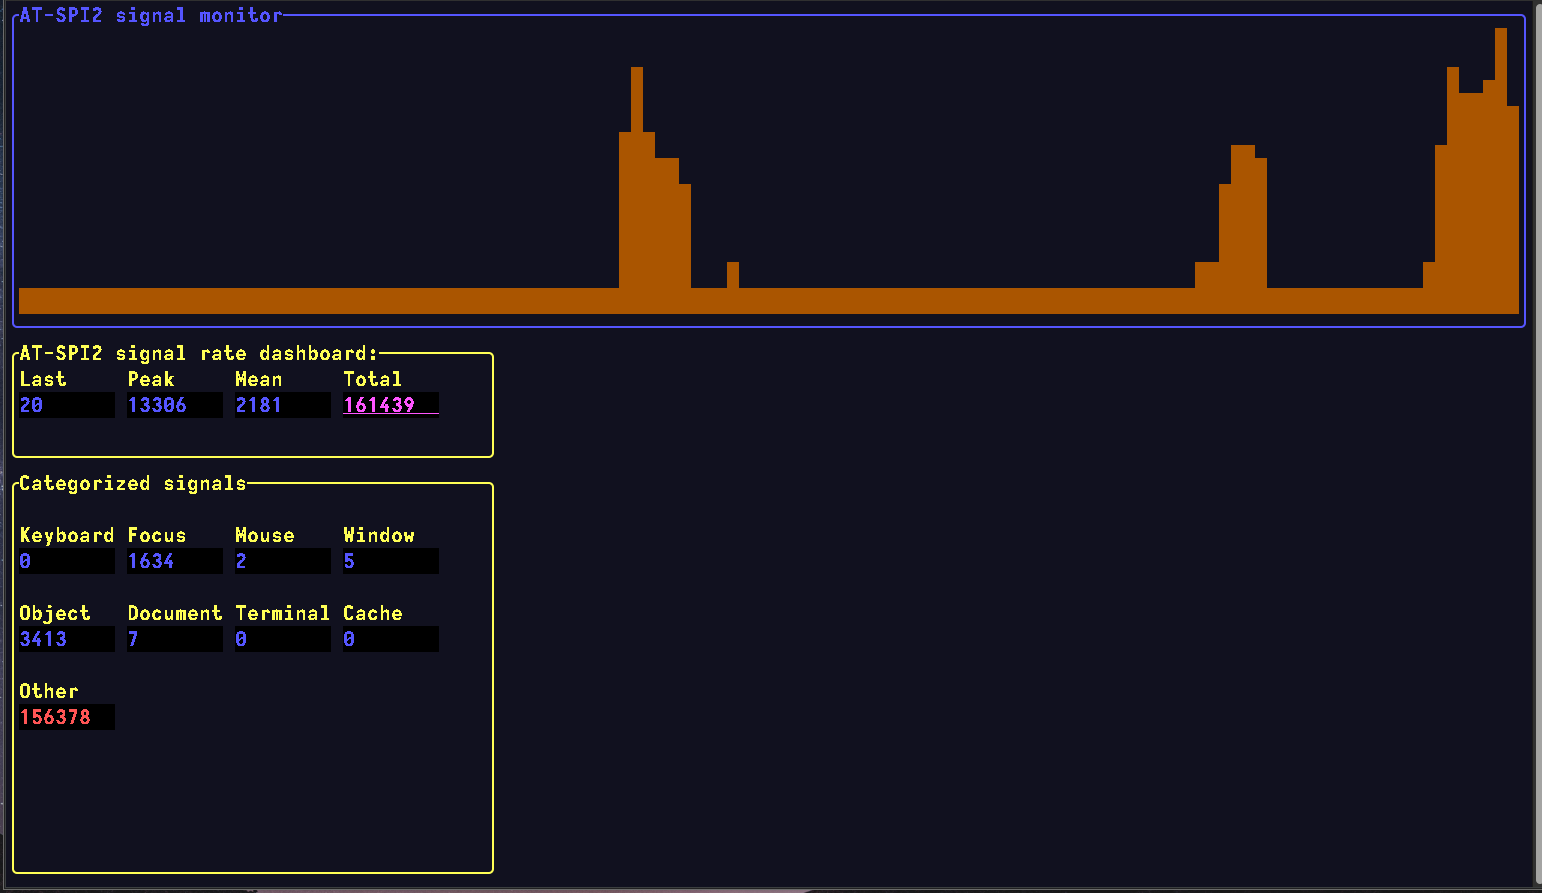
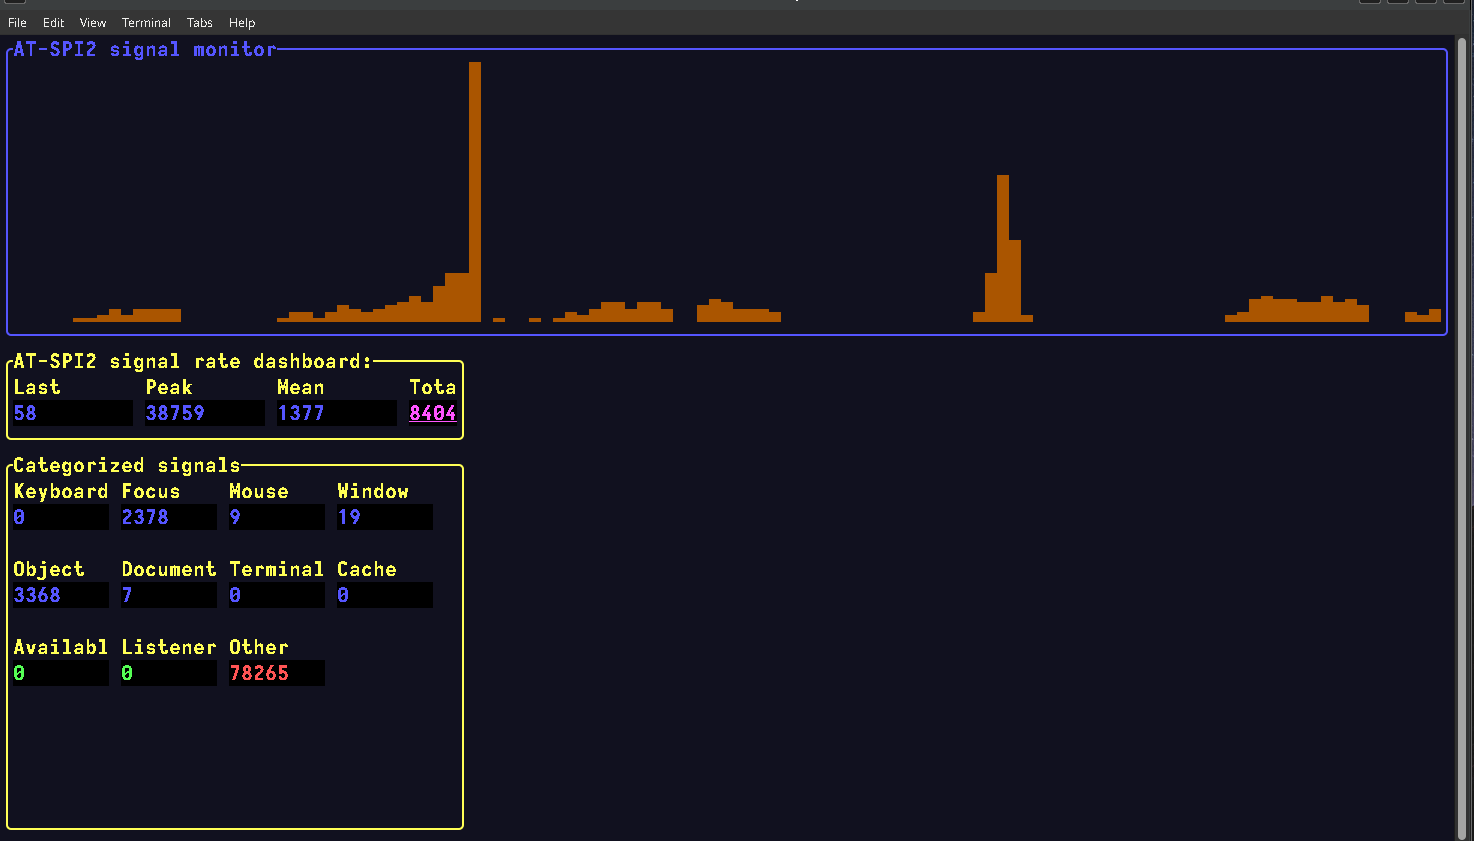
💄 Add `Available` and `Listener` events
This adds `Available` to the dashboard
Which is an event we realistically do not expect to see.
(It announces availability of the registry daemon)

Also this adds `Listener` events to the dashboard.
These are sent when we start or stop listening for an event.

Changed region(s): [[0.0, 0.0, 1.0, 1.0]]

diff --git a/src/main.rs b/src/main.rs
@@ -90,11 +90,14 @@ struct ScoreBoard {
     object: Counter,
     terminal: Counter,
     cache: Counter,
+    listeners: Counter,
+    available: Counter,
     other: Counter,
 
     // Global counters
     tick_counter: Counter,
     secs_counter: Counter,
+    total_seconds: Counter,
     total: Counter,
 }
 
@@ -162,6 +165,8 @@ impl App {
             Ok(AtspiEvent::Object(_)) => self.tally.object.plus_one(),
             Ok(AtspiEvent::Terminal(_)) => self.tally.terminal.plus_one(),
             Ok(AtspiEvent::Cache(_)) => self.tally.cache.plus_one(),
+            Ok(AtspiEvent::Listener(_)) => self.tally.listeners.plus_one(),
+            Ok(AtspiEvent::Available(_)) => self.tally.available.plus_one(),
             _ => self.tally.other.plus_one(),
         }
         self.tally.tick_counter.plus_one();
@@ -190,12 +195,13 @@ impl App {
         }
 
         self.rt_stats.rate.set(value);
+        self.tally.total_seconds.plus(value);
 
         // Per second data:
         let mut data = self.secs_data.lock().unwrap();
         data.push(value);
         let len = data.len();
-        let mean = data.iter().sum::<u64>() / len as u64;
+        let mean = self.tally.total_seconds.load() / len as u64;
         self.rt_stats.mean.set(mean);
     }
 }
@@ -216,7 +222,7 @@ async fn atspi_setup_connection() -> Result<AccessibilityConnection> {
     let dbus = zbus::fdo::DBusProxy::new(atspi.connection()).await?;
     let cache_signals = MatchRule::builder()
         .msg_type(zbus::MessageType::Signal)
-        .interface("org.a11y.atspi.Cache")?
+        .interface("org.a11y.atspi.Event.Cache")?
         .build();
 
     dbus.add_match_rule(cache_signals).await?;
@@ -424,6 +430,20 @@ fn ui<B: Backend>(f: &mut Frame<B>, app: Arc<App>) {
             .add_modifier(ratatui::style::Modifier::BOLD),
     );
 
+    let available = Cell::from(app.tally.available.load().to_string()).style(
+        Style::default()
+            .fg(Color::LightGreen)
+            .bg(Color::Black)
+            .add_modifier(ratatui::style::Modifier::BOLD),
+    );
+
+    let listeners = Cell::from(app.tally.listeners.load().to_string()).style(
+        Style::default()
+            .fg(Color::LightGreen)
+            .bg(Color::Black)
+            .add_modifier(ratatui::style::Modifier::BOLD),
+    );
+
     let cache = Cell::from(app.tally.cache.load().to_string()).style(
         Style::default()
             .fg(Color::LightBlue)
@@ -441,7 +461,7 @@ fn ui<B: Backend>(f: &mut Frame<B>, app: Arc<App>) {
     let column_data = [rate, max, mean, total];
     let event_col1 = [keyboard, mouse, focus, window];
     let event_col2 = [object, document, terminal, cache];
-    let event_col3 = [other];
+    let event_col3 = [available, listeners, other];
 
     let rates = Table::new([
         Row::new(["Last", "Peak", "Mean", "Total"]).style(Style::default().fg(Color::LightYellow)),
@@ -449,10 +469,10 @@ fn ui<B: Backend>(f: &mut Frame<B>, app: Arc<App>) {
     ])
     .style(Style::default().fg(Color::LightYellow))
     .widths(&[
-        Constraint::Length(8),
-        Constraint::Length(8),
-        Constraint::Length(8),
-        Constraint::Length(8),
+        Constraint::Length(10),
+        Constraint::Length(10),
+        Constraint::Length(10),
+        Constraint::Length(10),
     ])
     .column_spacing(1)
     .block(
@@ -470,7 +490,8 @@ fn ui<B: Backend>(f: &mut Frame<B>, app: Arc<App>) {
         Row::new(["Object", "Document", "Terminal", "Cache"])
             .style(Style::default().fg(Color::LightYellow)),
         Row::new(event_col2).bottom_margin(1),
-        Row::new(["Other"]).style(Style::default().fg(Color::LightYellow)),
+        Row::new(["Available", "Listeners", "Other"])
+            .style(Style::default().fg(Color::LightYellow)),
         Row::new(event_col3),
     ])
     .style(Style::default().fg(Color::LightYellow))
